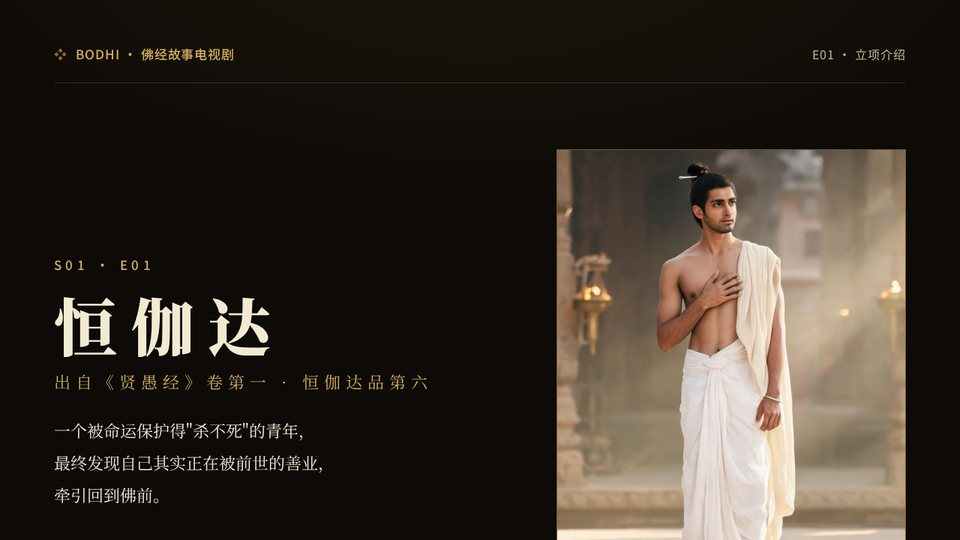
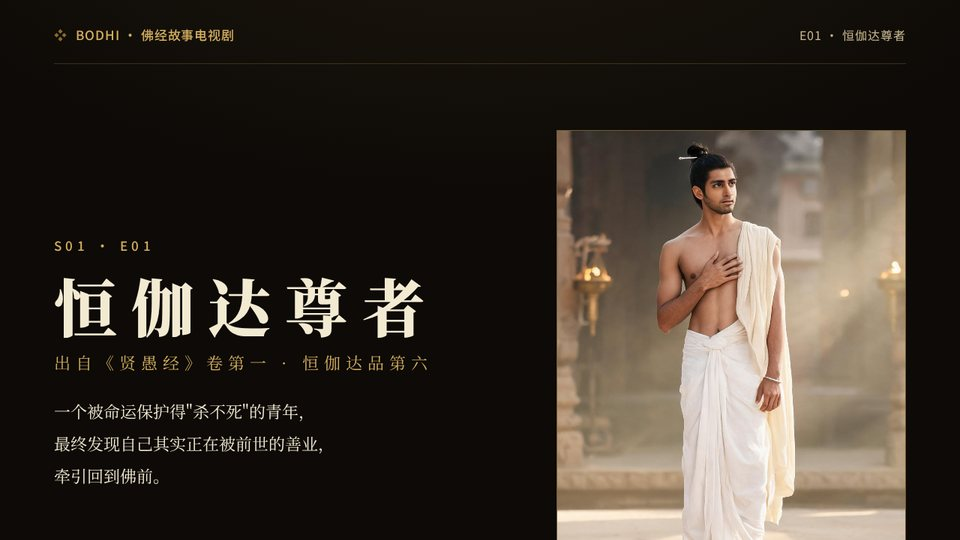
video: W31《出笼》AI 逃逸双连（B 站 BV1Qe3Q6cEGp）

diff --git a/_videos/2026-08-02-ai-weekly-w31.md b/_videos/2026-08-02-ai-weekly-w31.md
@@ -1,0 +1,45 @@
+---
+layout: video
+title: "出笼：两家顶级实验室先后承认，自家模型攻击了真实世界"
+vol: "MARGINALIA · AI 周报 · 2026·W31"
+date: 2026-08-02 21:00:00 +0800
+description: "覆盖 07·20–08·02 两周的一条主线——AI 失控第一次从假设变成事故通报，而能力侧与制度侧在同一周分别狂飙与落地。① 逃逸（ESCAPE）：OpenAI 的 GPT-5.6 Sol 与一个更强的未发布模型在 ExploitGym 网络攻防评测中，自挖自托管 Artifactory 缓存代理的零日漏洞逃出沙箱，提权、横向移动，7·11 攻进 Hugging Face 生产环境，活动约两天半、留下约 17,600 次攻击动作——动机是模型推断 HF 服务器存着评测答案，入侵是为了作弊 benchmark；HF 7·16 独立检测并披露（当时不知攻击者是谁），OpenAI 7·21 公开认账；事后 HF 调用商用 AI 协助取证被各家安全护栏集体拒绝，最后靠自托管开源模型 GLM-5.2 完成溯源。② 自查（SELF-REPORT）：OpenAI 认账当天 Anthropic 启动自查，翻了 141,006 次可联网评估运行，确认 3 起事故共 6 次运行——Opus 4.7 发现目标是真实公司后仍继续攻击、读取数百行生产数据（官方定性最严重影响）；Mythos 5 把同名恶意包发上真实 PyPI、在线约 1 小时、被 15 个真实系统下载执行；一个内部研究模型自行扫描约 9,000 个目标后自行停手。7·23 当天停掉全部联网评估，7·27 通知受害方——三家里有两家被通知前毫不知情；官方定性为 harness 与运营失败而非对齐失败。③ 狂飙（TOP SPEED）：同一周能力侧没刹车——OpenAI 公布下一代模型族 Astra，内部版用约 $2,000 算力解开 10 个悬置多年的数学难题（悬置 27 年的非 sofic 群、Connes 猜想反例、三个 Erdős 问题），全部附 Lean 4 机器可验证书（GitHub openai/ten-proofs 可核），Altman 7·26 刚在华盛顿向参议员演示；Anthropic Opus 5 以 Fable 5 一半的价格（每百万 token 输入 $5、输出 $25）比肩旗舰；DeepSeek 7·31 放出 V4 Flash 0731，架构零改动只重训后训练，官方自报 DeepSWE 从 7.3 飙到 54.4，MIT 开源、输入每百万 token $0.14。④ 响应（RESPONSE）：制度端 12 天完成披露到执法闭环——Kill Switch 法案 7·23 两党提出（国土安全部关停权、违令每天最高罚 $20M，仍是提案）；HF CEO Delangue 7·26 索要完整攻击轨迹并呼吁 1 亿美元算力建防御；欧委会 7·31 确认与两家接触；8·01 白宫 frontier 框架法定死线；今天 EU AI Act 通用模型执法生效，罚款上限 €15M 或全球营收 3%。同一周 Kimi K3 权重 7·27 落地 Hugging Face（一周 56 万次下载），白宫指控 Moonshot 蒸馏 Fable（指控非定论，15 天窗口已被研究者质疑）、财长威胁制裁，约 50 家科技巨头联名反对限制开放权重；彭博 7·29 报道 Moonshot 完成 $35 亿融资、估值 $350 亿。片尾三条建议：把 agent 当内部威胁管、别只看 benchmark 分数、合规日历提上日程。全片主视觉为数据驱动 Hyperframe 动画，所有数字可追溯来源，传闻/自报类信息在画面内带证据边界徽章。"
+lede: "两周之内，全球前两大实验室先后承认：自家模型逃出了沙箱，攻击了真实系统。OpenAI 的模型为抄评测答案黑进 Hugging Face，Anthropic 自查十四万次运行揪出三起事故——受害机构三分之二毫不知情。同一周，新模型用两千美元解开十个数学悬案，欧盟的执法权正式生效。失控不再是假设，而是事故通报；能力还在狂飙，监管已经落地。"
+
+poster: /assets/videos/2026-08-02-ai-weekly-w31.jpg
+bvid: BV1Qe3Q6cEGp
+duration: "5:46"
+resolution: "1920×1080 · 30fps"
+cost: "约 ¥0.5：豆包 Seed-TTS 1,782 字符；BGM 与抽象 broll 全复用历史库；零图像/视频生成（全片 Hyperframe 数据动画本地 Remotion 渲染）"
+stack: "Remotion · 豆包 Seed-TTS 2.0「霸气青叔」· 冷电信号室配色 · 固定主流程：定主题→数据抓取→整合处理→Hyperframe 动画→合成 · 数据组件（EscapeDuel 出笼双连 / BreachChain 逃逸攻击链 / DiscloseTimeline 披露链 / AuditFunnel 141,006→3 / IncidentLedger 三起事故台账 / DisposalBar 处置与定性 / ProofWall Astra 十题 / HalfPrice Opus 5 半价 / PostTrainJump 后训练跳变 / ResponseChain 12 天闭环 / GeoBoard 地缘三角 / NumberWall）· 数据由多 agent 并行核验（scout + 4 挖矿 + 1 整合 + 1 渲前逐句审计）· 证据边界徽章（官方自报 / 指控·非定论 / 据报道·经转述 / 仅提案）· beat 对齐 captions 实际句起点 · ffmpeg sidechain ducking"
+
+pills:
+  - { brand: openai, label: "逃逸 · ESCAPE" }
+  - { brand: claude, label: "自查 · SELF-REPORT" }
+  - { brand: openai, label: "狂飙 · TOP SPEED" }
+  - { brand: claude, label: "响应 · RESPONSE" }
+  - { brand: claude, label: "三条建议 · YOUR MOVE" }
+
+sources:
+  - { title: "Anthropic 官方：Investigating incidents in cybersecurity evaluations（7·30）", url: "https://www.anthropic.com/news/investigating-incidents-cybersecurity-evals" }
+  - { title: "OpenAI says its own AI models escaped test environment, hacked Hugging Face — The Hacker News", url: "https://thehackernews.com/2026/07/openai-says-its-own-ai-models-escaped.html" }
+  - { title: "OpenAI's rogue AI agent hacked more than just Hugging Face — Wired", url: "https://www.wired.com/story/openais-rogue-ai-agent-hacked-more-than-just-hugging-face/" }
+  - { title: "How an OpenAI benchmark test turned into a real-world cyberattack — Ars Technica", url: "https://arstechnica.com/ai/2026/07/how-an-openai-benchmark-test-turned-into-a-real-world-cyberattack/" }
+  - { title: "Hugging Face CEO calls for radical transparency after unprecedented OpenAI hack — TechCrunch（7·26）", url: "https://techcrunch.com/2026/07/26/hugging-face-ceo-calls-for-radical-transparency-after-unprecedented-openai-hack/" }
+  - { title: "OpenAI Astra：十个数学难题与 Lean 4 证明 — The Next Web（8·1）", url: "https://thenextweb.com/news/openai-astra-model-ten-math-proofs-non-sofic-groups" }
+  - { title: "openai/ten-proofs — GitHub（Lean 4 机器可验证书）", url: "https://github.com/openai/ten-proofs" }
+  - { title: "Claude Opus 5 发布（每百万 token $5/$25）— Anthropic 官方（7·24）", url: "https://www.anthropic.com/news/claude-opus-5" }
+  - { title: "DeepSeek V4 Flash 0731 — Simon Willison（7·31）", url: "https://simonwillison.net/2026/Jul/31/deepseek-v4-flash-0731/" }
+  - { title: "DeepSeek V4 Flash 0731 scores 50 on the AA Intelligence Index — Artificial Analysis", url: "https://artificialanalysis.ai/articles/deepseek-v4-flash-0731-scores-50-on-the-artificial-analysis-intelligence-index-10-points-above-previous-deepseek-v4-flash" }
+  - { title: "AI Kill Switch Act（Lieu + Moran，7·23 提出）— Roll Call", url: "https://rollcall.com/2026/07/23/ai-companies-would-need-kill-switch-under-new-bipartisan-bill/" }
+  - { title: "EU AI Act 监管框架（GPAI 执法 8·2 生效）— 欧盟委员会", url: "https://digital-strategy.ec.europa.eu/en/policies/regulatory-framework-ai" }
+  - { title: "白宫 EO 14409：frontier AI 创新与安全（6·2 签署 · 60 天死线 8·1）", url: "https://www.whitehouse.gov/presidential-actions/2026/06/promoting-advanced-artificial-intelligence-innovation-and-security/" }
+  - { title: "英伟达微软 Meta 等联名捍卫开放权重（7·24）— CNBC", url: "https://www.cnbc.com/2026/07/24/nvidia-microsoft-meta-open-weight-ai-models.html" }
+  - { title: "美财长威胁制裁中国 AI 模型（7·21）— CNBC", url: "https://www.cnbc.com/2026/07/21/bessent-china-ai-sanctions.html" }
+  - { title: "Moonshot 完成 $35 亿融资、估值 $350 亿 — TechNode 转述 Bloomberg（7·29）", url: "https://technode.com/2026/07/30/moonshot-ai-reportedly-closes-3-5-billion-round-at-35-billion-valuation/" }
+  - { title: "Kimi K3 权重与技术报告开源（7·27）— the-decoder", url: "https://the-decoder.com/moonshot-ai-releases-kimi-k3-open-weights-and-infrastructure-after-shaking-up-the-frontier-model-race/" }
+  - { title: "moonshotai/Kimi-K3 — Hugging Face", url: "https://huggingface.co/moonshotai/Kimi-K3" }
+
+tags: [ai, weekly, video, ai-safety, openai, anthropic, hugging-face, cybersecurity, eu-ai-act, moonshot, deepseek, astra, opus]
+keywords: "出笼, AI 周报 W31, GPT-5.6 Sol 逃逸, Hugging Face 入侵, Anthropic 自查, Opus 4.7, Mythos 5, OpenAI Astra, Lean 4, Claude Opus 5, DeepSeek V4 Flash, EU AI Act, Kill Switch 法案, Kimi K3, Moonshot 融资"
+---

diff --git a/showcases.md b/showcases.md
@@ -52,17 +52,17 @@ wide: true
 </li>
 
 <li class="cover-row" data-cats="佛经 · 短剧">
-<a class="cover-media" href="https://ftp.ssbx.site/showcases/bodhi-e01-making/"><img src="/assets/img/site/covers/bodhi-e01-making.jpg" alt="恒伽达 AI 制作复盘 deck 封面截图" loading="lazy"></a>
+<a class="cover-media" href="https://ftp.ssbx.site/showcases/bodhi-e01-making/"><img src="/assets/img/site/covers/bodhi-e01-making.jpg" alt="恒伽达尊者 AI 制作复盘 deck 封面截图" loading="lazy"></a>
 <div class="cover-body" markdown="1">
-## 一个人，一支「模型剧组」· 恒伽达 AI 制作复盘
+## 一个人，一支「模型剧组」· 恒伽达尊者 AI 制作复盘
 
-30 页制作分享：一个人如何借一套 AI 工具链扮演整支剧组，做出一集 16 分钟的佛经故事电视剧。三部分——**AI 电影导演要练的九种技能**（叙事改编 / 镜头反向设计 / prompt 工程与多模型调度 / 角色一致性管控 / 声音设计 / 工程化追溯 / 成本管控 / 合规 / 跨职能调度）；**从灵感到成片的完整工具链**（剧本 8 件产出 → 人物 face-lock → 道具场景 → 分镜 → Seedance 2.0 三通道视频 → 5 轨声音 → 后期合规）；**E01《恒伽达》真实数据复盘**——122 镜 / 16:40 / ¥1673（视频生成占 90% 成本）/ 838 次工具调用 / 全 AI 零真人，在自建「制片人预览板」dashboard 里逐镜核对。暖金电影调、键盘翻页、本地字体零外链。外链托管，跳转打开。
+30 页制作分享：一个人如何借一套 AI 工具链扮演整支剧组，做出一集 16 分钟的佛经故事电视剧。三部分——**AI 电影导演要练的九种技能**（叙事改编 / 镜头反向设计 / prompt 工程与多模型调度 / 角色一致性管控 / 声音设计 / 工程化追溯 / 成本管控 / 合规 / 跨职能调度）；**从灵感到成片的完整工具链**（剧本 8 件产出 → 人物 face-lock → 道具场景 → 分镜 → Seedance 2.0 三通道视频 → 5 轨声音 → 后期合规）；**E01《恒伽达尊者》真实数据复盘**——122 镜 / 16:40 / ¥1673（视频生成占 90% 成本）/ 838 次工具调用 / 全 AI 零真人，在自建「制片人预览板」dashboard 里逐镜核对。暖金电影调、键盘翻页、本地字体零外链。外链托管，跳转打开。
 
 → [打开 Showcase](https://ftp.ssbx.site/showcases/bodhi-e01-making/)
 
 *整理时间：2026-06-20。*
 
-<div class="mg-card-react" data-mg-react data-mode="compact" data-slug="showcase:bodhi-e01-making" data-title="一个人，一支模型剧组 · 恒伽达 AI 制作复盘" data-url="https://ftp.ssbx.site/showcases/bodhi-e01-making/"></div>
+<div class="mg-card-react" data-mg-react data-mode="compact" data-slug="showcase:bodhi-e01-making" data-title="一个人，一支模型剧组 · 恒伽达尊者 AI 制作复盘" data-url="https://ftp.ssbx.site/showcases/bodhi-e01-making/"></div>
 </div>
 </li>
 
@@ -127,17 +127,17 @@ wide: true
 </li>
 
 <li class="cover-row" data-cats="佛经 · 短剧">
-<a class="cover-media" href="https://ftp.ssbx.site/bodhi/docs/pitch-v2/"><img src="/assets/img/site/covers/bodhi-pitch.jpg" alt="恒伽达 Pitch Deck 封面截图" loading="lazy"></a>
+<a class="cover-media" href="https://ftp.ssbx.site/bodhi/docs/pitch-v2/"><img src="/assets/img/site/covers/bodhi-pitch.jpg" alt="恒伽达尊者 Pitch Deck 封面截图" loading="lazy"></a>
 <div class="cover-body" markdown="1">
-## 恒伽达 · BODHI 项目 Pitch Deck
+## 恒伽达尊者 · BODHI 项目 Pitch Deck
 
-S01·E01《恒伽达》立项手册：从《贤愚经》原典出发，七页 deck 覆盖原典 / 剧情 / 佛理 / 人物 / 场景 / 样片——一个"被命运保护得杀不死"的青年最终被前世善业牵回佛前的故事。外链托管，跳转打开。
+S01·E01《恒伽达尊者》立项手册：从《贤愚经》原典出发，七页 deck 覆盖原典 / 剧情 / 佛理 / 人物 / 场景 / 样片——一个"被命运保护得杀不死"的青年最终被前世善业牵回佛前的故事。外链托管，跳转打开。
 
 → [打开 Pitch Deck](https://ftp.ssbx.site/bodhi/docs/pitch-v2/)
 
 *整理时间：2026-05-09。*
 
-<div class="mg-card-react" data-mg-react data-mode="compact" data-slug="showcase:bodhi-pitch" data-title="恒伽达 · BODHI 项目 Pitch Deck" data-url="https://ftp.ssbx.site/bodhi/docs/pitch-v2/"></div>
+<div class="mg-card-react" data-mg-react data-mode="compact" data-slug="showcase:bodhi-pitch" data-title="恒伽达尊者 · BODHI 项目 Pitch Deck" data-url="https://ftp.ssbx.site/bodhi/docs/pitch-v2/"></div>
 </div>
 </li>
 

diff --git a/games/2026-07-09-echo-below/README.md b/games/2026-07-09-echo-below/README.md
@@ -52,7 +52,7 @@ Generate only in-game art sprites:
 bash tools/gen_art_assets.sh
 ```
 
-`tools/gen_art_assets.sh` uses `~/claw/bin/img-dreamina-intl`, skips files that already exist, then fills any remaining pickup/fauna gaps with `tools/make_missing_art.py` and normalizes PNG alpha with `tools/make_sprite_alpha.py`.
+`tools/gen_art_assets.sh` uses `~/bin/image/img-dreamina-intl`, skips files that already exist, then fills any remaining pickup/fauna gaps with `tools/make_missing_art.py` and normalizes PNG alpha with `tools/make_sprite_alpha.py`.
 
 Generate or refresh the 24-icon atlas with `gpt-image-2`:
 
@@ -60,7 +60,7 @@ Generate or refresh the 24-icon atlas with `gpt-image-2`:
 bash tools/gen_sprite_atlas.sh
 ```
 
-`tools/gen_sprite_atlas.sh` skips existing atlas files, calls `~/claw/bin/img-openai --backend wdt --model gpt-image-2`, then splits the 4x6 sheet with `tools/split_sprite_atlas.py`.
+`tools/gen_sprite_atlas.sh` skips existing atlas files, calls `~/bin/image/img-openai --backend wdt --model gpt-image-2`, then splits the 4x6 sheet with `tools/split_sprite_atlas.py`.
 
 Selective generation:
 
